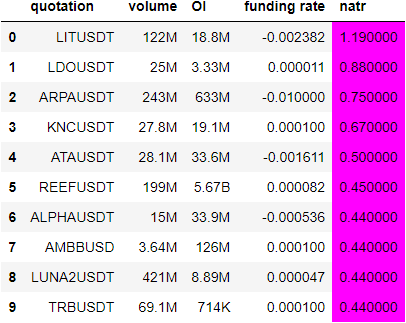
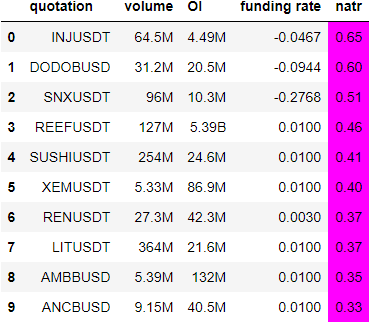
remove btc, eth and xpr from volumes

diff --git a/market_screener.py b/market_screener.py
@@ -122,7 +122,10 @@ class Screener:
 
     
     def get_screening(self, num=10):
-        market_metrics = self.get_market_metrics()
+        market_metrics = self.get_market_metrics().copy()
+        drop = ['BTCUSDT', 'ETHUSDT', 'XRPUSDT'] # it quotes always in top 3
+        market_metrics = market_metrics[~market_metrics['quotation'].isin(drop)]
+
         sorted_df = market_metrics.sort_values(by=['turnover_24h'], 
                                                ascending=False)
         top_10_vol = sorted_df[:num]
@@ -159,7 +162,7 @@ class Screener:
 
 if __name__ == '__main__':
     screener = Screener('binance')
-    print(screener.get_top_natr())
+    print(screener.get_screening())
     #metrics = screener.get_market_metrics()
     #print(screener.get_upcoming_fundings())
     #print(screener.sorting(metrics, False, param=4))

diff --git a/tg_img_table_creator.py b/tg_img_table_creator.py
@@ -17,7 +17,8 @@ def img_table_creator(df_inn, column_name):
             'background-color': 'magenta',
             'subset': column_name
         }
-    )
+    ).format(formatter={('natr'): '{:.2f}',
+                        ('funding rate'): '{:.4f}'})
 
     if column_name == 'volume':metric_name = 'screening'
     if column_name == 'natr': metric_name = 'natr'
@@ -26,3 +27,8 @@ def img_table_creator(df_inn, column_name):
     name = path + metric_name + '.png'
 
     dfi.export(df_img, name)
+
+if __name__ == '__main__':
+    df = pd.DataFrame([('BTCUSDT', 100000, 20000000, 0.025, 2.58)],
+                      columns=['quotation', 'turnover_24h', 'open_interest', 'funding_rate', 'natr'])
+    img_table_creator(df, 'volume')

diff --git a/tg_msg_preparer.py b/tg_msg_preparer.py
@@ -36,8 +36,10 @@ def df_formatter(df):
         df_format['turnover_24h'].apply(lambda x: num_formatter(x))
     df_format['open_interest'] = \
         df_format['open_interest'].apply(lambda x: num_formatter(x))
+    df_format['funding_rate'] = \
+        df_format['funding_rate'].apply(lambda x: x*100)
     df_format['natr'] = \
-        df_format['natr'].apply(lambda x: round(x, 2))
+        df_format['natr'].apply(lambda x: x)
     #print(df_format)
     return df_format
 
